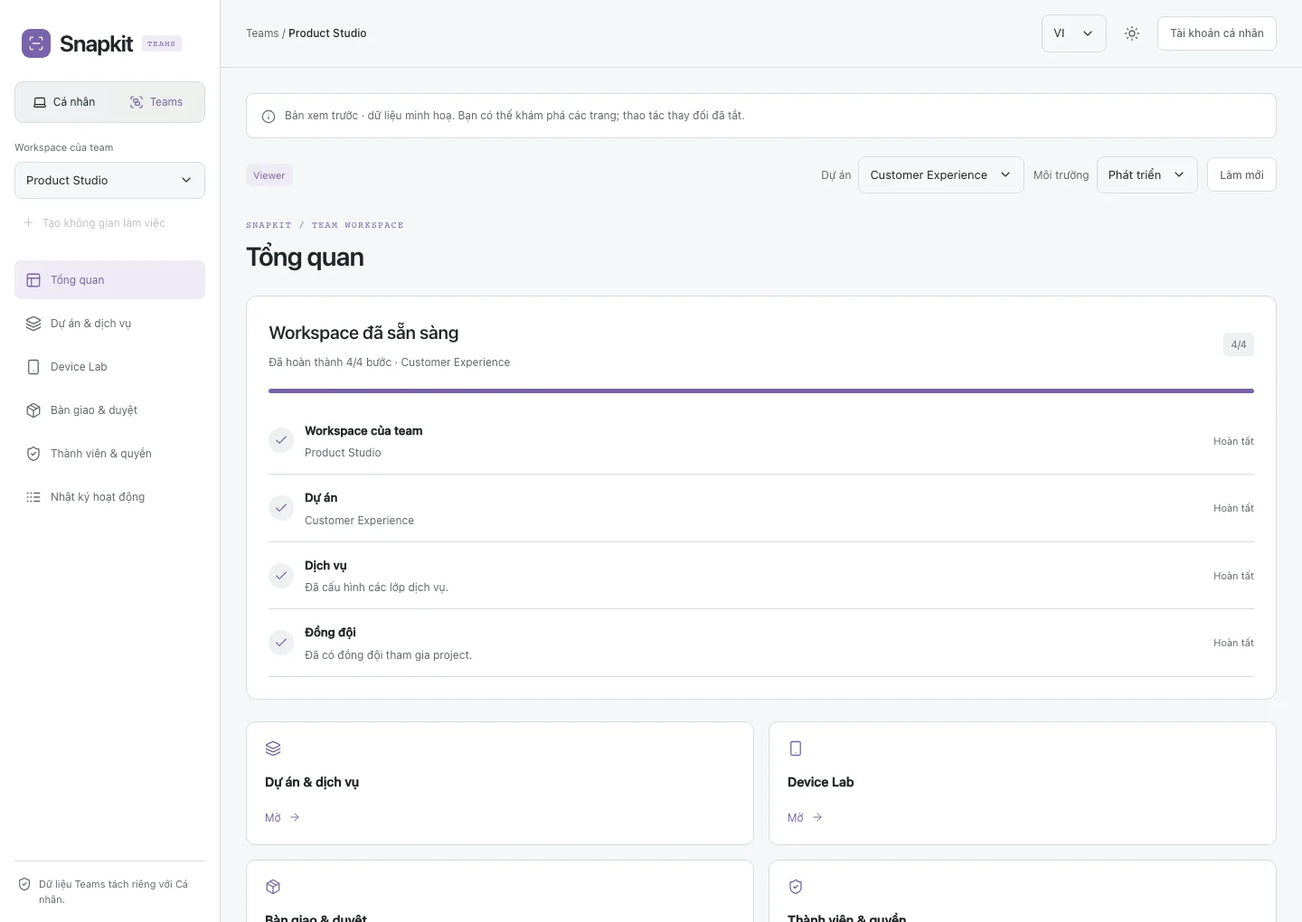
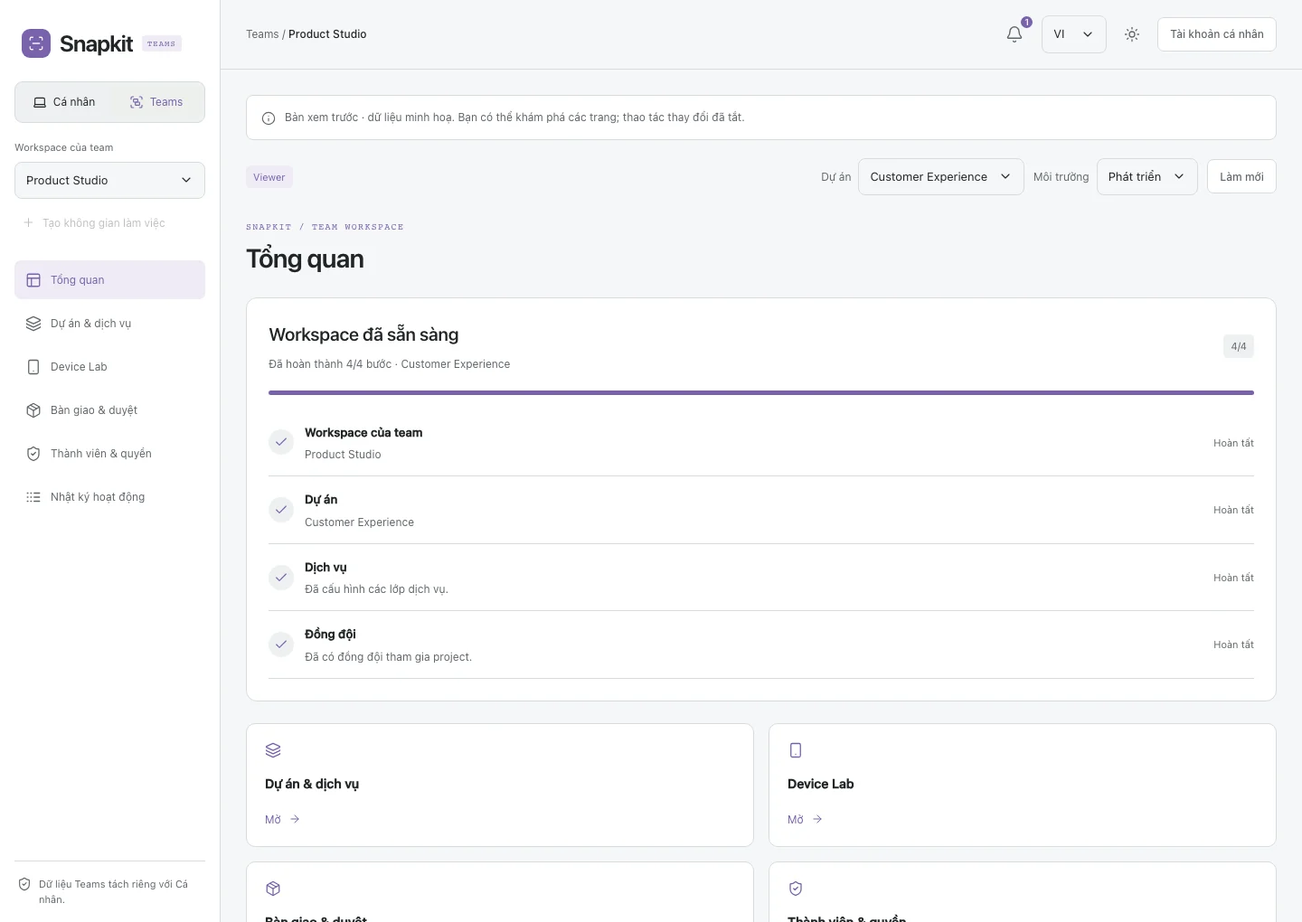
Add scoped Teams notification bell and persistent unread state

diff --git a/apps/dashboard/src/features/teams/Teams.tsx b/apps/dashboard/src/features/teams/Teams.tsx
@@ -26,14 +26,14 @@ function Teams({personalHost}:{personalHost:HTMLElement}){
  const [workspaceId,setWorkspaceId]=useState(''),[projectId,setProjectId]=useState(''),[environment,setEnvironment]=useState<Environment>('development');
  const [loading,setLoading]=useState(false),[busy,setBusy]=useState(false),[error,setError]=useState(''),[message,setMessage]=useState('');
  const [form,setForm]=useState<FormState|null>(null),[formError,setFormError]=useState(''),[localSession,setLocalSession]=useState<LocalSession|null>(null);
- const epoch=useRef(0),heading=useRef<HTMLHeadingElement>(null),workspaceIdRef=useRef('');
+ const epoch=useRef(0),heading=useRef<HTMLHeadingElement>(null),workspaceIdRef=useRef(''),notificationTarget=useRef<{workspaceId:string;projectId?:string;environment?:Environment}|null>(null);
  const project=workspace?.projects.find(p=>p.id===projectId)||workspace?.projects[0];
  const isPreview=!!window.SNAPKIT_PREVIEW;
  const can=(permission:string,env?:Environment)=>!!workspace?.membership.permissions.includes(permission)&&(!env||workspace.membership.environments.includes(env))&&(permission!=='blueprint.write'||workspace.membership.serviceLayers?.length!==0);
  function changeMode(next:'personal'|'teams'){setMode(next);}
  useEffect(()=>{document.body.dataset.productMode=mode;try{localStorage.setItem('snapkit-product-mode',mode);}catch{}document.dispatchEvent(new CustomEvent('snapkit:product-mode',{detail:mode}));},[mode]);
  useEffect(()=>{const switchMode=(e:Event)=>{const m=(e as CustomEvent).detail;if(m==='teams'||m==='personal')setMode(m);};document.addEventListener('snapkit:select-product',switchMode);return()=>document.removeEventListener('snapkit:select-product',switchMode);},[]);
- const install=useCallback((value:TeamWorkspace)=>{setWorkspace(value);setWorkspaceId(value.id);workspaceIdRef.current=value.id;setProjectId(current=>value.projects.some(p=>p.id===current)?current:value.projects[0]?.id||'');setEnvironment(current=>value.membership.environments.includes(current)?current:value.membership.environments[0]||'development');},[]);
+ const install=useCallback((value:TeamWorkspace)=>{setWorkspace(value);document.dispatchEvent(new Event('snapkit:teams-updated'));setWorkspaceId(value.id);workspaceIdRef.current=value.id;const target=notificationTarget.current;notificationTarget.current=null;setProjectId(current=>{const preferred=target?.workspaceId===value.id?target.projectId:current;return value.projects.some(p=>p.id===preferred)?preferred!:value.projects[0]?.id||'';});setEnvironment(current=>{const preferred=target?.workspaceId===value.id?target.environment:current;return preferred&&value.membership.environments.includes(preferred)?preferred:value.membership.environments[0]||'development';});},[]);
  const refresh=useCallback(async(preferred?:string,quiet=false)=>{
   const current=++epoch.current;if(!quiet)setLoading(true);setError('');
   try{
@@ -121,6 +121,15 @@ function Teams({personalHost}:{personalHost:HTMLElement}){
   <section className="teams-section"><h2>{t('Role permissions')}</h2><p className="teams-help">{t('Actions also require project and environment scope. Workspace ownership does not grant release approval or production secrets.')}</p><div className="teams-table-wrap"><table className="teams-table"><thead><tr><th>{t('Function')}</th>{['owner','lead','developer','qa','devops','designer','viewer'].map(r=><th key={r}>{roleLabel(r)}</th>)}</tr></thead><tbody>{rolePermissions.map(([label,roles])=><tr key={label}><th>{t(label)}</th>{['owner','lead','developer','qa','devops','designer','viewer'].map(r=><td key={r}>{roles.includes(r)?t('Allowed'):t('Not allowed')}</td>)}</tr>)}</tbody></table></div></section>
  </>;}
  function audit(){return <div className="teams-table-wrap"><table className="teams-table"><thead><tr><th>{t('Time')}</th><th>{t('Member')}</th><th>{t('Action')}</th><th>{t('Scope')}</th></tr></thead><tbody>{workspace?.audit.map(a=><tr key={a.id}><td>{time(a.at)}</td><td>{a.actorName}</td><td>{t(actions[a.action]||a.action)}</td><td>{a.projectId?workspace.projects.find(p=>p.id===a.projectId)?.name:t('Workspace')}<small>{a.environment?envLabel(a.environment):''}</small></td></tr>)}</tbody></table></div>;}
+ useEffect(()=>{
+  const navigate=(event:Event)=>{
+    const target=(event as CustomEvent).detail;
+    if(!target||!navigation.some(([id])=>id===target.page)||typeof target.workspaceId!=='string')return;
+    notificationTarget.current=target;workspaceIdRef.current=target.workspaceId;setMode('teams');go(target.page);
+    if(mode==='teams')void refresh(target.workspaceId);
+  };
+  document.addEventListener('snapkit:notification-open',navigate);return()=>document.removeEventListener('snapkit:notification-open',navigate);
+ },[refresh,mode]);
  const selectedTitle=navigation.find(([id])=>id===page)?.[2]||'Overview';
  return <>
   {createPortal(productSwitch(),personalHost)}
@@ -130,7 +139,7 @@ function Teams({personalHost}:{personalHost:HTMLElement}){
     <button className="teams-create-workspace" disabled={busy||isPreview} onClick={()=>open('workspace')} aria-label={t('Create team workspace')}><Icon name="plus"/><span>{t('Create workspace')}</span></button>
     <nav aria-label={t('Teams navigation')}>{navigation.map(([id,icon,label])=><button key={id} aria-label={t(label)} aria-current={page===id?'page':undefined} disabled={busy} onClick={()=>go(id)}><Icon name={icon}/><span>{t(label)}</span></button>)}</nav><div className="teams-sidebar-foot"><Icon name="shield-check"/><span>{t('Team data is isolated from Personal.')}</span></div>
    </aside>
-   <div className="teams-shell"><header className="teams-topbar"><span>Teams <span aria-hidden="true">/</span> <strong>{workspace?.name||t('Your team')}</strong></span><label className="teams-mobile-workspace"><span>{t('Team workspace')}</span><Select aria-label={t('Switch team workspace')} value={workspaceId} disabled={busy||loading||!listing.workspaces.length} onChange={e=>void selectWorkspace(e.target.value)}>{!listing.workspaces.length&&<option value="">{t('Choose a workspace')}</option>}{listing.workspaces.map(w=><option key={w.id} value={w.id}>{w.name}</option>)}</Select></label><div><Select aria-label={t('Language')} value={window.SnapkitI18n.language} onChange={e=>window.SnapkitI18n.setLanguage(e.target.value)}><option value="en">EN</option><option value="vi">VI</option></Select><button className="icon-button" aria-label={t('Appearance')} onClick={()=>applyAppearance(getAppearance()==='light'?'dark':'light')}><Icon name="sun"/></button><button className="button" onClick={()=>changeMode('personal')}>{t('Personal account')}</button></div></header>
+   <div className="teams-shell"><header className="teams-topbar"><span>Teams <span aria-hidden="true">/</span> <strong>{workspace?.name||t('Your team')}</strong></span><label className="teams-mobile-workspace"><span>{t('Team workspace')}</span><Select aria-label={t('Switch team workspace')} value={workspaceId} disabled={busy||loading||!listing.workspaces.length} onChange={e=>void selectWorkspace(e.target.value)}>{!listing.workspaces.length&&<option value="">{t('Choose a workspace')}</option>}{listing.workspaces.map(w=><option key={w.id} value={w.id}>{w.name}</option>)}</Select></label><div><span id="teams-notifications-slot"/><Select aria-label={t('Language')} value={window.SnapkitI18n.language} onChange={e=>window.SnapkitI18n.setLanguage(e.target.value)}><option value="en">EN</option><option value="vi">VI</option></Select><button className="icon-button" aria-label={t('Appearance')} onClick={()=>applyAppearance(getAppearance()==='light'?'dark':'light')}><Icon name="sun"/></button><button className="button" onClick={()=>changeMode('personal')}>{t('Personal account')}</button></div></header>
     <main className="teams-main" aria-busy={loading||busy}>
      {isPreview&&<p className="teams-info" role="status"><Icon name="info"/>{t("Interactive preview · fictional data. Explore pages; changes are disabled.")}</p>}
      <div className="teams-context"><div>{workspace&&<><span className="teams-badge purple">{roleLabel(workspace.membership.role)}</span></>}</div><div>{workspace&&<><label>{t('Project')}<Select aria-label={t('Team project')} value={project?.id||''} disabled={busy||!workspace.projects.length} onChange={e=>setProjectId(e.target.value)}>{!workspace.projects.length&&<option value="">{t('No projects')}</option>}{workspace.projects.map(p=><option key={p.id} value={p.id}>{p.name}</option>)}</Select></label><label>{t('Environment')}<Select aria-label={t('Team environment')} value={environment} disabled={busy} onChange={e=>setEnvironment(e.target.value as Environment)}>{workspace.membership.environments.map(env=><option key={env} value={env}>{envLabel(env)}</option>)}</Select></label></>}{callButton(loading?'Loading…':'Refresh',()=>void refresh(),false,loading)}</div></div>

diff --git a/apps/dashboard/src/features/notifications/Notifications.tsx b/apps/dashboard/src/features/notifications/Notifications.tsx
@@ -1,0 +1,58 @@
+import {createRoot} from 'react-dom/client';
+import {createPortal} from 'react-dom';
+import {useCallback,useEffect,useId,useRef,useState} from 'react';
+import {api,state} from '../../legacy/device-controller.js';
+import {Icon} from '../../shared/ui/icons';
+import {t,useLanguage} from '../../shared/ui/use-language';
+import './notifications.css';
+import './messages.js';
+type Notification={id:string;type:string;title:string;at:string;workspaceId:string;workspaceName:string;page:string;projectId?:string;environment?:string;detail?:string;read:boolean};
+type Feed={userId:string;items:Notification[]};
+function Notifications({personalHost}:{personalHost:HTMLElement}){
+ const language=useLanguage(),id=useId(),trigger=useRef<HTMLButtonElement>(null),panel=useRef<HTMLDivElement>(null),epoch=useRef(0),writing=useRef(false);
+ const [mode,setMode]=useState(document.body.dataset.productMode),[open,setOpen]=useState(false),[feed,setFeed]=useState<Feed>({userId:'',items:[]}),[loading,setLoading]=useState(false),[saving,setSaving]=useState(false),[error,setError]=useState(false),[unreadOnly,setUnreadOnly]=useState(false);
+ const preview=!!window.SNAPKIT_PREVIEW,available=preview||!(state as {demo?:boolean}).demo||mode==='teams';
+ const refresh=useCallback(async()=>{
+  if(!available||writing.current)return;const current=++epoch.current;setLoading(true);
+  try{const result=await api('/api/teams/notifications',undefined,true) as Feed;if(current!==epoch.current)return;setFeed(previous=>preview&&previous.userId===result.userId?{...result,items:result.items.map(item=>({...item,read:previous.items.find(old=>old.id===item.id)?.read??item.read}))}:result);setError(false);}
+  catch{if(current===epoch.current){setError(true);setFeed({userId:'',items:[]});}}
+  finally{if(current===epoch.current)setLoading(false);}
+ },[available,preview]);
+ function close(restore=false){setOpen(false);if(restore)trigger.current?.focus();}
+ useEffect(()=>{const change=(e:Event)=>{setMode((e as CustomEvent).detail);close();};document.addEventListener('snapkit:product-mode',change);return()=>document.removeEventListener('snapkit:product-mode',change);},[]);
+ useEffect(()=>{
+  void refresh();const update=()=>{if(!document.hidden)void refresh();};const timer=setInterval(update,30000);
+  document.addEventListener('snapkit:teams-updated',update);document.addEventListener('visibilitychange',update);window.addEventListener('focus',update);
+  return()=>{epoch.current++;clearInterval(timer);document.removeEventListener('snapkit:teams-updated',update);document.removeEventListener('visibilitychange',update);window.removeEventListener('focus',update);};
+ },[refresh]);
+ useEffect(()=>{
+  if(!open)return;const element=panel.current!,button=trigger.current!;
+  function position(){const r=button.getBoundingClientRect(),width=Math.min(400,innerWidth-24);Object.assign(element.style,{width:width+'px',left:Math.max(12,Math.min(r.right-width,innerWidth-width-12))+'px',top:Math.min(r.bottom+8,innerHeight-160)+'px',maxHeight:Math.max(120,innerHeight-r.bottom-24)+'px'});}
+  element.showPopover();position();element.querySelector<HTMLButtonElement>('[data-close]')?.focus({preventScroll:true});
+  const outside=(e:Event)=>{if(!element.contains(e.target as Node)&&!button.contains(e.target as Node))close();};
+  document.addEventListener('pointerdown',outside,true);document.addEventListener('focusin',outside);window.addEventListener('resize',position);
+  return()=>{if(element.isConnected&&element.matches(':popover-open'))element.hidePopover();document.removeEventListener('pointerdown',outside,true);document.removeEventListener('focusin',outside);window.removeEventListener('resize',position);};
+ },[open]);
+ async function read(ids?:string[]){
+  if(writing.current)return;writing.current=true;setSaving(true);epoch.current++;setLoading(false);
+  try{if(preview)setFeed(previous=>({...previous,items:previous.items.map(item=>({...item,read:!ids||ids.includes(item.id)||item.read}))}));else setFeed(await api('/api/teams/notifications/read',ids?{ids}:{all:true}) as Feed);setError(false);}catch{setError(true);}finally{writing.current=false;setSaving(false);}
+ }
+ const unread=feed.items.filter(item=>!item.read).length,items=unreadOnly?feed.items.filter(item=>!item.read):feed.items;
+ const host=mode==='teams'?document.getElementById('teams-notifications-slot'):personalHost;
+ return <>
+ {host&&createPortal(<button ref={trigger} type="button" className="icon-button notification-trigger" aria-label={unread?t('Notifications ({0} unread)',[unread]):t('Notifications')} aria-expanded={open} aria-haspopup="dialog" aria-controls={id} onClick={()=>{setOpen(!open);if(!open)void refresh();}}><Icon name="bell"/>{unread>0&&<span className="notification-count" aria-hidden="true">{unread>99?'99+':unread}</span>}</button>,host)}
+ <div ref={panel} id={id} popover="manual" className="notification-panel" role="dialog" aria-labelledby={id+'-title'} onKeyDown={e=>{if(e.key==='Escape'){e.preventDefault();e.stopPropagation();close(true);}}}>
+  <header><h2 id={id+'-title'}>{t('Notifications')}</h2><button className="icon-button" data-close type="button" aria-label={t('Close notifications')} onClick={()=>close(true)}><Icon name="x"/></button></header>
+  <div className="notification-tools"><div role="group" aria-label={t('Filter notifications')}><button type="button" aria-pressed={!unreadOnly} onClick={()=>setUnreadOnly(false)}>{t('All')}</button><button type="button" aria-pressed={unreadOnly} onClick={()=>setUnreadOnly(true)}>{t('Unread')}{unread>0?' · '+unread:''}</button></div><button type="button" disabled={saving||loading||!unread} onClick={()=>void read()}>{t('Mark all as read')}</button></div>
+  <div className="notification-content" aria-busy={loading||saving}>
+   {!available?<p className="notification-empty">{t('Sign in to receive team notifications.')}</p>:error?<div className="notification-empty" role="alert"><p>{t('Could not update notifications.')}</p><button type="button" className="button" onClick={()=>void refresh()}>{t('Retry')}</button></div>:loading&&!items.length?<p className="notification-empty" role="status">{t('Loading notifications…')}</p>:!items.length?<div className="notification-empty"><Icon name="bell"/><p>{t(unreadOnly?'You are all caught up.':'No notifications yet.')}</p></div>:<ul>{items.map(item=><li key={item.id} data-unread={!item.read}><button type="button" disabled={saving} className="notification-item" onClick={()=>{if(!item.read)void read([item.id]);close(true);document.dispatchEvent(new CustomEvent('snapkit:notification-open',{detail:item}));}}><span className="notification-symbol"><Icon name={item.type==='invitation'?'group':item.type==='handoff'?'package':item.type==='warning'?'circle-alert':'layers'}/></span><span><strong>{t(item.title)}</strong><small>{item.workspaceName}{item.detail?' · '+item.detail:''}</small><time dateTime={item.at}>{new Date(item.at).toLocaleString(language==='vi'?'vi-VN':'en-US',{dateStyle:'short',timeStyle:'short'})}</time></span>{!item.read&&<span className="notification-unread-dot" aria-label={t('Unread')}/>}</button></li>)}</ul>}
+  </div>
+ </div>
+ </>;
+}
+export function mountNotifications(){
+ const rootHost=document.createElement('div');rootHost.id='notifications-root';document.body.append(rootHost);
+ const personalHost=document.createElement('span');personalHost.className='notifications-slot';document.getElementById('help-button')!.before(personalHost);
+ const root=createRoot(rootHost);root.render(<Notifications personalHost={personalHost}/>);
+ return()=>{root.unmount();rootHost.remove();personalHost.remove();};
+}

diff --git a/tests/e2e/teams.spec.js b/tests/e2e/teams.spec.js
@@ -90,7 +90,7 @@ test('QA, Lead and Viewer see their real permissions and move the same immutable
    const invitation=workspace.invitations.find(i=>i.email===role+'@example.com');await cleanup.api(role,'/invitations/'+invitation.id+'/accept',{});
   }
   await cleanup.api('owner',base+'/handoffs',{projectId,title:'API release candidate',environment:'development',commit:'abc1234',buildUrl:'https://builds.example.com/api/1',artifactSha256:'a'.repeat(64),blueprintVersion:1});
-  cleanup.asUser('qa');await page.addInitScript(()=>localStorage.setItem('snapkit-product-mode','teams'));await page.goto('/');
+  cleanup.asUser('qa');await page.route('**/api/state',async route=>{const response=await route.fetch(),result=await response.json();result.demo=false;await route.fulfill({json:result});});await page.addInitScript(()=>localStorage.setItem('snapkit-product-mode','teams'));await page.goto('/');
   await page.getByRole('button',{name:'Handoffs & approvals',exact:true}).click();await page.getByRole('button',{name:'Confirm QA passed',exact:true}).click();await expect(page.locator('.teams-handoff-list')).toContainText('QA confirmed');await expect(page.getByRole('button',{name:'Approve release',exact:true})).toHaveCount(0);
   cleanup.asUser('lead');await page.reload();await page.getByRole('button',{name:'Handoffs & approvals',exact:true}).click();await page.getByRole('button',{name:'Approve release',exact:true}).click();await expect(page.locator('.teams-handoff-list')).toContainText('Approved');
   cleanup.asUser('viewer');await page.reload();await expect(page.getByRole('button',{name:'Prepare local session',exact:true})).toHaveCount(0);await page.getByRole('button',{name:'Handoffs & approvals',exact:true}).click();await expect(page.locator('.teams-handoff-list')).toContainText('Approved');await expect(page.getByRole('button',{name:'Create QA handoff',exact:true})).toHaveCount(0);
@@ -142,5 +142,46 @@ test('invitation email status is visible and resend reports its cooldown without
   let workspace=await cleanup.api('owner','',{name:'Email team'});workspace=await cleanup.api('owner','/'+workspace.id+'/invitations',{email:'qa@example.com',role:'qa',projectIds:null,environments:['development']});
   await page.goto('/?product=teams');await page.getByRole('button',{name:'Members & access',exact:true}).click();await expect(page.locator('.teams-events')).toContainText('Invitation email sent');
   await page.getByRole('button',{name:'Resend email',exact:true}).click();await expect(page.getByRole('alert')).toContainText('Wait one minute');await expect(page.locator('.teams-events')).toContainText('qa@example.com');
+ }finally{await cleanup();}
+});
+
+test('notification bell shows invitations, persists reads and navigates from Personal to Teams',async({page},testInfo)=>{
+ const cleanup=await teamService(page,testInfo);
+ try{
+  const w=await cleanup.api('owner','',{name:'Bell team'});
+  await cleanup.api('owner','/'+w.id+'/invitations',{email:'qa@example.com',role:'qa',projectIds:null,environments:['development']});
+  cleanup.asUser('qa');
+  await page.route('**/api/state',async route=>{const response=await route.fetch(),result=await response.json();result.demo=false;await route.fulfill({json:result});});
+  await page.goto('/');
+  const bell=page.locator('.notification-trigger:visible'),panel=page.locator('.notification-panel');
+  await bell.click();await expect(panel).toBeVisible();await expect(bell).toContainText('1');
+  await expect(panel.getByText('You have a team invitation',{exact:true})).toBeVisible();
+  await page.keyboard.press('Escape');await expect(panel).toBeHidden();await expect(bell).toBeFocused();
+  await bell.click();await panel.getByRole('button',{name:'Mark all as read',exact:true}).click();await expect(bell.locator('.notification-count')).toHaveCount(0);
+  await panel.getByRole('button',{name:'Unread',exact:true}).click();await expect(panel).toContainText('You are all caught up.');
+  await page.reload();await page.locator('.notification-trigger:visible').click();await expect(panel).toContainText('You have a team invitation');await expect(page.locator('.notification-count')).toHaveCount(0);
+  await panel.getByRole('button',{name:/You have a team invitation/}).click();
+  await expect(page.locator('body')).toHaveAttribute('data-product-mode','teams');await expect(page.getByRole('button',{name:'Accept invitation',exact:true})).toBeVisible();
+  await page.locator('.notification-trigger:visible').click();await expect(panel).toBeVisible();await page.locator('.teams-sidebar').click();await expect(panel).toBeHidden();
+  await page.setViewportSize({width:375,height:812});await page.locator('.notification-trigger:visible').click();
+  await expect(panel).toBeVisible();const box=await panel.boundingBox();expect(box.x).toBeGreaterThanOrEqual(0);expect(box.x+box.width).toBeLessThanOrEqual(375);
+  await page.screenshot({path:testInfo.outputPath('notifications-mobile.png'),animations:'disabled'});
+ }finally{await cleanup();}
+});
+
+test('QA notification opens the referenced project and environment',async({page},testInfo)=>{
+ const cleanup=await teamService(page,testInfo);
+ try{
+  const w=await cleanup.api('owner','',{name:'Build team'}),base='/'+w.id;
+  await cleanup.api('owner',base+'/projects',{name:'First project'});
+  const p2=await cleanup.api('owner',base+'/projects',{name:'Target project'}),project=p2.projects[1];
+  const invited=await cleanup.api('owner',base+'/invitations',{email:'qa@example.com',role:'qa',projectIds:null,environments:['development','staging']});
+  await cleanup.api('qa','/invitations/'+invited.invitations[0].id+'/accept',{});
+  await cleanup.api('owner',base+'/handoffs',{title:'Staging checkout',projectId:project.id,environment:'staging',commit:'abc1234',artifactSha256:'a'.repeat(64),blueprintVersion:project.blueprint.version,buildUrl:'https://example.com/build.zip',steps:'Check checkout'});
+  cleanup.asUser('qa');await page.route('**/api/state',async route=>{const response=await route.fetch(),result=await response.json();result.demo=false;await route.fulfill({json:result});});await page.addInitScript(()=>localStorage.setItem('snapkit-product-mode','teams'));await page.goto('/');
+  await expect(page.locator('.teams-topbar')).toContainText('Build team');await page.getByRole('button',{name:'Personal',exact:true}).click();await page.locator('.notification-trigger:visible').click();
+  await page.locator('.notification-panel').getByRole('button',{name:/QA review needed/}).click();
+  await expect(page.locator('.teams-handoff-list')).toContainText('Staging checkout');await expect(page.getByRole('button',{name:'Confirm QA passed',exact:true})).toBeVisible();
+  await page.locator('.notification-trigger:visible').click();await page.screenshot({path:testInfo.outputPath('notifications-desktop.png'),animations:'disabled'});
  }finally{await cleanup();}
 });

diff --git a/apps/dashboard/src/features/notifications/notifications.css b/apps/dashboard/src/features/notifications/notifications.css
@@ -1,0 +1,1 @@
+.notifications-slot,#teams-notifications-slot{display:inline-flex;align-items:center}.notification-trigger{position:relative;min-width:44px;min-height:44px}.notification-trigger svg{width:20px;height:20px}.notification-count{position:absolute;right:0;top:0;min-width:17px;height:17px;border:2px solid var(--bg);padding:0 3px;border-radius:12px;background:var(--purple);color:var(--bg);font:600 10px/13px var(--font);text-align:center}.notification-panel{position:fixed;inset:auto;margin:0;padding:0;border:1px solid var(--border);border-radius:14px;background:var(--surface);color:var(--text);box-shadow:0 16px 50px #0003;overflow:auto;overscroll-behavior:contain;font:13px/1.6 var(--font);max-width:calc(100vw - 24px)}.notification-panel:not(:popover-open){display:none}.notification-panel header{display:flex;align-items:center;justify-content:space-between;padding:14px 16px;border-bottom:1px solid var(--border)}.notification-panel h2{font-size:16px;line-height:1.4;letter-spacing:normal;margin:0;font-weight:600}.notification-panel .icon-button{min-width:44px;min-height:44px}.notification-panel .icon-button svg{width:18px;height:18px}.notification-tools{display:flex;align-items:center;justify-content:space-between;gap:8px;padding:8px 12px;border-bottom:1px solid var(--border);flex-wrap:wrap}.notification-tools>div{display:flex;gap:4px}.notification-tools button{font-size:12px;min-height:36px;padding:7px 9px;border-radius:6px}.notification-tools button[aria-pressed=true]{color:var(--purple);background:color-mix(in srgb,var(--purple) 10%,var(--surface))}.notification-tools>button{color:var(--muted)}.notification-content ul{list-style:none;padding:0;margin:0}.notification-content li+li{border-top:1px solid var(--border)}.notification-item{display:flex;align-items:flex-start;gap:12px;text-align:left;width:100%;padding:16px;min-height:76px}.notification-item:hover,.notification-item:focus-visible{background:var(--surface-hover)}.notification-item>span:nth-child(2){min-width:0;flex:1}.notification-item strong{display:block;font-size:13px;line-height:1.5;font-weight:550}.notification-item small,.notification-item time{display:block;color:var(--muted);font-size:12px;line-height:1.5;overflow-wrap:anywhere;margin-top:4px}.notification-item time{font-size:11px}.notification-symbol{flex-shrink:0;width:32px;height:32px;border-radius:8px;display:grid;place-items:center;background:var(--surface-subtle);color:var(--muted)}.notification-symbol svg{width:17px;height:17px}.notification-content li[data-unread=true] .notification-symbol{color:var(--purple);background:color-mix(in srgb,var(--purple) 10%,var(--surface))}.notification-unread-dot{width:7px;height:7px;background:var(--purple);border-radius:50%;flex-shrink:0;margin-top:7px}.notification-empty{padding:32px 20px;text-align:center;color:var(--muted)}.notification-empty>svg{width:25px;height:25px;margin-bottom:12px}.notification-empty .button{margin-top:12px}.notification-panel button:focus-visible{outline:2px solid var(--purple);outline-offset:-3px}@media(pointer:coarse){.notification-tools button{min-height:44px}}

diff --git a/tests/unit/team-notifications.test.js b/tests/unit/team-notifications.test.js
@@ -1,0 +1,32 @@
+import test from 'node:test';
+import assert from 'node:assert/strict';
+import {teamNotifications} from '../../apps/cloud/src/domain/team-notifications.js';
+
+const now=Date.now(),at=new Date(now).toISOString();
+const member=(userId,role='qa',projectIds=['public'])=>({userId,role,projectIds,environments:['development'],joinedAt:new Date(now-1000).toISOString()});
+const workspace=()=>({id:'team',name:'Engineering',members:[member('qa'),member('lead','lead'),member('author','developer'),member('owner','owner',null)],invitations:[],audit:[],handoffs:[]});
+test('notification feed enforces recipient, tenant, project, environment and approval permissions',()=>{
+ const w=workspace(),db={workspaces:[w]},qa={id:'qa',email:'qa@example.com'};
+ w.invitations=[{id:'invite',email:'guest@example.com',expiresAt:now+100000,delivery:{status:'failed'}},{id:'expired',email:'guest@example.com',expiresAt:now-1}];
+ const handoff={id:'build',title:'Checkout',projectId:'public',environment:'development',createdAt:at,createdBy:'author',status:'pending'};
+ w.handoffs=[handoff,{...handoff,id:'private',projectId:'secret'},{...handoff,id:'production',environment:'production'}];
+ assert.deepEqual(teamNotifications(db,qa,now).map(n=>n.id),['handoff:build:pending']);
+ assert.equal(teamNotifications(db,{id:'author',email:'author@example.com'},now).length,0);
+ assert.equal(teamNotifications(db,{id:'outsider',email:'outsider@example.com'},now).length,0);
+ assert.deepEqual(teamNotifications(db,{id:'guest',email:'GUEST@example.com'},now).map(n=>n.id),['invite:invite']);
+ assert.equal(teamNotifications(db,{id:'owner',email:'owner@example.com'},now)[0].type,'warning');
+ handoff.status='qa-approved';handoff.qa={userId:'qa',at};
+ assert.equal(teamNotifications(db,qa,now).length,0);
+ assert.equal(teamNotifications(db,{id:'lead',email:'lead@example.com'},now)[0].title,'Release approval needed');
+ w.members=w.members.filter(m=>m.userId!=='lead');
+ assert.equal(teamNotifications(db,{id:'lead',email:'lead@example.com'},now).length,0);
+});
+test('activity notifications respect join time, environment-only scope, author exclusion and per-user reads',()=>{
+ const w=workspace(),db={workspaces:[w],notificationReads:{qa:['event:visible']}};
+ const event={id:'visible',actorId:'author',action:'blueprint.updated',at,projectId:'public',environment:'development'};
+ w.audit=[event,{...event,id:'old',at:new Date(now-10000).toISOString()},{...event,id:'own',actorId:'qa'},{...event,id:'environment-only',projectId:null,environment:'production'},{...event,id:'private',projectId:'secret'}];
+ assert.deepEqual(teamNotifications(db,{id:'qa',email:'qa@example.com'},now).map(n=>[n.id,n.read]),[['event:visible',true]]);
+ assert.equal(teamNotifications(db,{id:'lead',email:'lead@example.com'},now)[0].read,false);
+ w.members[0].projectIds=[];
+ assert.equal(teamNotifications(db,{id:'qa',email:'qa@example.com'},now).length,0);
+});

diff --git a/apps/cloud/src/domain/team-notifications.js b/apps/cloud/src/domain/team-notifications.js
@@ -1,0 +1,24 @@
+import {teamCan,teamProjectVisible} from './team-access.js';
+// Derive notifications from live authorized records; revoked access removes them immediately.
+export function teamNotifications(db,user,now=Date.now()) {
+ const items=[];
+ for(const workspace of db.workspaces){
+  const member=workspace.members.find(m=>m.userId===user.id);
+  const add=(id,type,title,at,page,extra={})=>items.push({id,type,title,at,workspaceId:workspace.id,workspaceName:workspace.name,page,...extra});
+  if(!member){for(const invitation of workspace.invitations){if(invitation.email===user.email.toLowerCase()&&invitation.expiresAt>now)add('invite:'+invitation.id,'invitation','You have a team invitation',new Date(invitation.expiresAt-7*86400000).toISOString(),'home');}continue;}
+  const visible=(projectId,environment)=>(!projectId||teamProjectVisible(member,projectId))&&(!environment||member.environments.includes(environment));
+  for(const handoff of workspace.handoffs){
+   if(!visible(handoff.projectId,handoff.environment)||handoff.createdBy===user.id)continue;
+   const qa=handoff.status==='pending'&&teamCan(member,'qa.confirm',handoff.projectId,handoff.environment);
+   const approve=handoff.status==='qa-approved'&&handoff.qa?.userId!==user.id&&teamCan(member,'release.approve',handoff.projectId,handoff.environment);
+   if(qa||approve)add('handoff:'+handoff.id+':'+handoff.status,'handoff',qa?'QA review needed':'Release approval needed',handoff.qa?.at||handoff.createdAt,'handoffs',{projectId:handoff.projectId,environment:handoff.environment,detail:handoff.title});
+  }
+  if(teamCan(member,'members.manage'))for(const invitation of workspace.invitations){if(invitation.expiresAt>now&&['failed','not_configured'].includes(invitation.delivery?.status))add('mail:'+invitation.id+':'+(invitation.delivery.attemptedAt||0),'warning','Invitation email needs attention',new Date(invitation.delivery.attemptedAt||invitation.expiresAt-7*86400000).toISOString(),'members');}
+  const titles={'invitation.accepted':'A teammate joined','blueprint.updated':'Project configuration updated','handoff.approved':'Release approved','handoff.changes-requested':'Changes requested'};
+  for(const event of workspace.audit){if(!titles[event.action]||event.actorId===user.id||event.at<member.joinedAt||!visible(event.projectId,event.environment))continue;
+   add('event:'+event.id,event.action.startsWith('handoff.')?'handoff':'activity',titles[event.action],event.at,event.action==='invitation.accepted'?'members':event.action==='blueprint.updated'?'projects':'handoffs',{projectId:event.projectId,environment:event.environment});
+  }
+ }
+ const read=new Set(db.notificationReads?.[user.id]||[]);
+ return items.sort((a,b)=>b.at.localeCompare(a.at)||a.id.localeCompare(b.id)).slice(0,100).map(item=>({...item,read:read.has(item.id)}));
+}

diff --git a/tests/unit/teams-api.test.js b/tests/unit/teams-api.test.js
@@ -133,3 +133,26 @@ test('Teams local preparation never changes personal setup or sends local paths 
   assert.equal((await fetch(origin + '/api/teams/workspace-id/members/google%3Averified', { method: 'POST', headers: { 'Content-Type': 'application/json' }, body: '{}' })).status, 200);
   assert.equal(requests.at(-1).route, '/v1/teams/workspace-id/members/google%3Averified', 'encoded Google ids are supported without allowing path traversal');
 });
+
+test('notification reads persist per account and reject unrelated or revoked IDs',async t=>{
+ const directory=await mkdtemp(path.join(os.tmpdir(),'snapkit-notifications-'));t.after(()=>rm(directory,{recursive:true,force:true}));
+ const users=['owner','guest','outsider'];
+ await writeFile(path.join(directory,'accounts.json'),JSON.stringify({users:Object.fromEntries(users.map(id=>[id,{id,email:id+'@example.com',name:id}])),sessions:Object.fromEntries(users.map(id=>[createHash('sha256').update('notification-'+id).digest('hex'),{userId:id,expires:Date.now()+86400000}])),content:defaultContent(),audit:[]}));
+ let server,origin;
+ const start=async()=>{server=createCloud({env:{SNAPKIT_CLOUD_DATA:directory}}).listen(0,'127.0.0.1');await new Promise(r=>server.once('listening',r));origin='http://127.0.0.1:'+server.address().port;};
+ await start();t.after(()=>new Promise(r=>server.close(r)));
+ const request=async(user,route,data)=>fetch(origin+'/v1/teams'+route,{method:data===undefined?'GET':'POST',headers:{Authorization:'Bearer notification-'+user,'Content-Type':'application/json'},...(data===undefined?{}:{body:JSON.stringify(data)})});
+ const ok=async(user,route,data)=>{const response=await request(user,route,data),result=await response.json();assert.ok(response.ok,JSON.stringify(result));return result;};
+ const w=await ok('owner','',{name:'Notification team'});
+ const invited=await ok('owner','/'+w.id+'/invitations',{email:'guest@example.com',role:'viewer',projectIds:null,environments:['development']});
+ const id='invite:'+invited.invitations[0].id;
+ assert.equal((await ok('guest','/notifications')).items[0].read,false);
+ assert.equal((await request('outsider','/notifications/read',{ids:[id]})).status,400);
+ assert.equal((await ok('guest','/notifications/read',{ids:[id]})).items[0].read,true);
+ assert.ok((await ok('owner','/notifications')).items.every(item=>!item.read));
+ await new Promise(r=>server.close(r));await start();
+ assert.equal((await ok('guest','/notifications')).items[0].read,true);
+ await ok('owner','/'+w.id+'/invitations/'+invited.invitations[0].id+'/revoke',{});
+ assert.deepEqual((await ok('guest','/notifications')).items,[]);
+ assert.equal((await request('guest','/notifications/read',{ids:[id]})).status,400);
+});

diff --git a/tests/pages/site.spec.js b/tests/pages/site.spec.js
@@ -196,7 +196,7 @@ test('Teams gallery opens a read-only showcase without account data or network A
  page.on('pageerror',error=>errors.push(error.message));
  await page.goto('./?lang=en');
  await page.locator('[data-preview=teams]').click();
- await expect(page.locator('#app-preview')).toHaveAttribute('src','assets/teams.webp?v=20261110-setup48');
+ await expect(page.locator('#app-preview')).toHaveAttribute('src','assets/teams.webp?v=20261110-notifications50');
  await expect(page.locator('#preview-caption')).toContainText('fictional sample data');
  await expect(page.locator('#preview-demo-link')).toHaveAttribute('href','demo/?product=teams');
  const links=await page.locator('a[href]').evaluateAll(nodes=>nodes.map(node=>node.getAttribute('href')));
@@ -217,4 +217,15 @@ test('Teams gallery opens a read-only showcase without account data or network A
  await page.getByRole('button',{name:'Personal',exact:true}).click();
  await expect(page.locator('#devices-grid')).toBeVisible();
  expect(calls).toEqual([]);expect(errors).toEqual([]);
+});
+
+test('Teams preview notification bell stays local and fits Vietnamese mobile',async({page},testInfo)=>{
+ const requests=[],errors=[];page.on('request',r=>{if(r.url().includes('/api/'))requests.push(r.url());});page.on('pageerror',e=>errors.push(e.message));
+ await page.setViewportSize({width:375,height:812});await page.goto('demo/?product=teams&lang=vi');
+ const bell=page.locator('.notification-trigger:visible'),panel=page.locator('.notification-panel');
+ await bell.click();await expect(panel).toBeVisible();await expect(panel).toContainText('Cấu hình dự án đã cập nhật');
+ await panel.getByRole('button',{name:'Đọc tất cả',exact:true}).click();await expect(bell.locator('.notification-count')).toHaveCount(0);
+ await panel.getByRole('button',{name:'Chưa đọc',exact:true}).click();await expect(panel).toContainText('Bạn đã đọc hết thông báo.');
+ await page.screenshot({path:testInfo.outputPath('notifications-vi-mobile.png'),animations:'disabled'});
+ expect(await page.evaluate(()=>document.documentElement.scrollWidth<=innerWidth)).toBe(true);expect(requests).toEqual([]);expect(errors).toEqual([]);
 });

diff --git a/apps/dashboard/src/shared/ui/icons.tsx b/apps/dashboard/src/shared/ui/icons.tsx
@@ -1,6 +1,6 @@
-import { createIcons, AppWindow, Moon, Palette, PcCase, ArrowRight, ArrowUpRight, Bot, Bug, Building, Cable, Camera, Check, CheckCircle2, ChevronDown, ChevronsUpDown, CircleAlert, CircleCheck, CircleCheckBig, CircleHelp, Clock3, CloudDownload, CodeXml, Cpu, Crosshair, Delete, Download, ExternalLink, FlaskConical, Focus, FolderCode, FolderOpen, Gem, Gift, Group, Hammer, HardDrive, Image, ImageOff, Info, KeyRound, Laptop, Layers, Link, List, LoaderCircle, Logs, MemoryStick, Menu, Monitor, MonitorSmartphone, MousePointer2, NotebookText, Option, Orbit, Package, PanelsTopLeft, Play, Plus, Power, Puzzle, Radio, RefreshCw, RotateCw, Scan, ScanLine, Scroll, Search, Section, Send, Settings, ShieldCheck, Sidebar, SlidersHorizontal, Smartphone, Sparkles, Square, Sun, Tablet, Target, Terminal, Trash2, Usb, UserCheck, Video, Wallpaper, Wifi, WifiOff, Wrench, X } from 'lucide';
+import { createIcons, Bell, AppWindow, Moon, Palette, PcCase, ArrowRight, ArrowUpRight, Bot, Bug, Building, Cable, Camera, Check, CheckCircle2, ChevronDown, ChevronsUpDown, CircleAlert, CircleCheck, CircleCheckBig, CircleHelp, Clock3, CloudDownload, CodeXml, Cpu, Crosshair, Delete, Download, ExternalLink, FlaskConical, Focus, FolderCode, FolderOpen, Gem, Gift, Group, Hammer, HardDrive, Image, ImageOff, Info, KeyRound, Laptop, Layers, Link, List, LoaderCircle, Logs, MemoryStick, Menu, Monitor, MonitorSmartphone, MousePointer2, NotebookText, Option, Orbit, Package, PanelsTopLeft, Play, Plus, Power, Puzzle, Radio, RefreshCw, RotateCw, Scan, ScanLine, Scroll, Search, Section, Send, Settings, ShieldCheck, Sidebar, SlidersHorizontal, Smartphone, Sparkles, Square, Sun, Tablet, Target, Terminal, Trash2, Usb, UserCheck, Video, Wallpaper, Wifi, WifiOff, Wrench, X } from 'lucide';
 export const iconNodes = {
-  'app-window': AppWindow, 'moon': Moon, 'palette': Palette, 'pc-case': PcCase,
+  'bell': Bell, 'app-window': AppWindow, 'moon': Moon, 'palette': Palette, 'pc-case': PcCase,
   'arrow-right': ArrowRight,
   'arrow-up-right': ArrowUpRight,
   'bot': Bot,

diff --git a/apps/dashboard/src/legacy/device-controller.js b/apps/dashboard/src/legacy/device-controller.js
@@ -28,9 +28,13 @@ const groupLabel = { ios: 'iOS SIMULATOR', android: 'ANDROID EMULATOR', physical
 const groupIcon = { ios: 'smartphone', android: 'bot', physical: 'usb' };
 const previewReadOnlyMessage = "Preview only. Open the local Dashboard at http://127.0.0.1:4310 to control your devices.";
 
-async function api(url, data) {
+async function api(url, data, quiet = false) {
   if (window.SNAPKIT_PREVIEW) {
     if (data !== undefined) throw new Error(previewReadOnlyMessage);
+    if (url === '/api/teams/notifications') {
+      const workspace=window.SNAPKIT_PREVIEW.teams;
+      return {userId:workspace.membership.userId,items:workspace.audit.filter(event=>event.action==='blueprint.updated').map(event=>({id:'event:'+event.id,type:'activity',title:'Project configuration updated',at:event.at,workspaceId:workspace.id,workspaceName:workspace.name,projectId:event.projectId,page:'projects',read:false}))};
+    }
     if (url === '/api/teams' && window.SNAPKIT_PREVIEW.teams) {
       const workspace = window.SNAPKIT_PREVIEW.teams;
       return { userId:workspace.membership.userId, roles:[], environments:workspace.membership.environments, workspaces:[{id:workspace.id,name:workspace.name,role:'viewer'}], invitations:[] };
@@ -52,7 +56,7 @@ async function api(url, data) {
   }
   if (window.SNAPKIT_CONTROLLER && !connection) throw new Error(t("Connect your local Snapkit server first."));
   try { return await agentRequest(url, data, { connection, token: state.token, unauthorized: forgetConnection }); }
-  catch (error) { document.dispatchEvent(new Event('snapkit:review-error')); throw error; }
+  catch (error) { if (!quiet) document.dispatchEvent(new Event('snapkit:review-error')); throw error; }
 }
 function toast(message, error = false) {
   // Sample-device actions remain read-only without reporting an expected limitation as an error.

diff --git a/apps/cloud/src/teams.js b/apps/cloud/src/teams.js
@@ -1,4 +1,5 @@
 import express from 'express';
+import { teamNotifications } from './domain/team-notifications.js';
 import { invitationMailer } from './infrastructure/invitation-mail.js';
 import { randomUUID, createHash } from 'node:crypto';
 import { readFile, writeFile, mkdir, rename } from 'node:fs/promises';
@@ -118,6 +119,16 @@ export function createTeams({ env, accounts, fetcher=fetch }) {
       if (req.method !== 'GET' && !identity.bearer && (req.headers.origin !== accounts.origin || req.headers['x-snapkit-request'] !== '1')) return res.status(403).json({ error: 'Invalid request origin.' });
       req.teamUser = identity.user; next();
     } catch { res.status(503).json({ error: 'Teams storage is unavailable. Try again later.' }); }
+  });
+  router.get('/notifications',(req,res)=>res.json({userId:req.teamUser.id,items:teamNotifications(db,req.teamUser)}));
+  router.post('/notifications/read',async(req,res)=>{
+    const result=await transaction(req,(next,user)=>{
+      const items=teamNotifications(next,user),visible=new Set(items.map(item=>item.id));
+      const ids=req.body?.all===true?items.map(item=>item.id):req.body?.ids;
+      if(!Array.isArray(ids)||ids.length>100||ids.some(id=>typeof id!=='string'||!visible.has(id)))fail(400,'Select valid notifications.');
+      next.notificationReads||={};next.notificationReads[user.id]=[...new Set([...(next.notificationReads[user.id]||[]).filter(id=>visible.has(id)),...ids])].slice(-100);
+      return {userId:user.id,items:teamNotifications(next,user)};
+    });res.json(result);
   });
   router.get('/', (req, res) => res.json({
     emailDeliveryConfigured:mailer.configured, userId: req.teamUser.id, roles: teamRoles, environments: teamEnvironments,

diff --git a/apps/dashboard/src/main.tsx b/apps/dashboard/src/main.tsx
@@ -28,6 +28,8 @@ try {
   await accountReady;
   const { mountTeams } = await import('./features/teams/Teams');
   const unmountTeams = mountTeams();
+  const { mountNotifications } = await import('./features/notifications/Notifications');
+  const unmountNotifications = mountNotifications();
   const { mountDeveloperProfile } = await import('./features/onboarding/DeveloperProfile');
   const unmountDeveloperProfile = mountDeveloperProfile();
   const { mountWorkspaceSwitcher } = await import('./features/workspace/WorkspaceSwitcher');
@@ -40,7 +42,7 @@ try {
   document.dispatchEvent(new Event('snapkit:ui-ready'));
   window.snapkitDesktop?.ready?.();
   if (import.meta.hot) {
-    import.meta.hot.dispose(() => { unmountUpdates(); unmountAppearance(); unmountDeveloperProfile(); unmountWorkspaces(); unmountReviews(); unmountTeams(); });
+    import.meta.hot.dispose(() => { unmountUpdates(); unmountAppearance(); unmountDeveloperProfile(); unmountWorkspaces(); unmountReviews(); unmountTeams(); unmountNotifications(); });
     // Legacy controllers use native listeners; full reload prevents duplicate subscriptions.
     import.meta.hot.accept(() => location.reload());
   }
